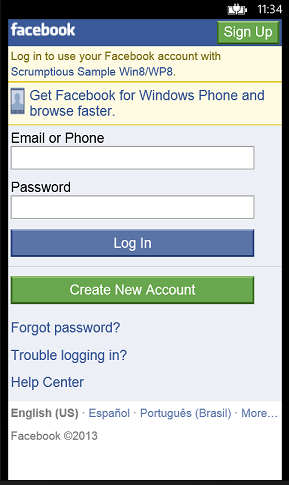
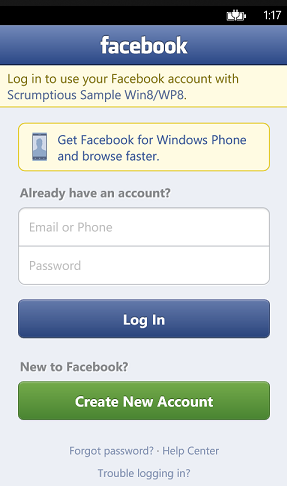
Updating the phone sample to use Facebook.Client library

diff --git a/docs/phone/tutorial/index.md b/docs/phone/tutorial/index.md
@@ -35,21 +35,27 @@ Once you have created the app, you need to edit the app and change a few setting
 > ATTENTION: You may have to wait 5-10 minutes for the App you just created to propagate through the Facebook system before it becomes Active. If your app's facebook login is not working immediately after you created the App, give it 10 minutes and try again.
 
 ### Getting Started on the Application
-To get started, create a Visual Studio project using the Visual C# -> Windows Phone -> Windows Phone App. Let us call our app the Facebook.Scrumptious.WindowsPhone. Visual Studio will ask if you want to target _Windows Phone OS 7.1 or 8.0_. You can choose either, the code for the Facebook integration works with both versions the same way. In this tutorial however, we will assume that the selected version is 7.1. For the sake of this tutorial, you should select 7.1 to avoid any surprises. This will create a barebones application with a single blank page.
+To get started, create a Visual Studio project using the Visual C# -> Windows Phone -> Windows Phone App. Let us call our app the Facebook.Scrumptious.WindowsPhone. Visual Studio will ask if you want to target _Windows Phone OS 7.1 or 8.0_. You can choose either, the code for the Facebook integration works with both versions the same way. In this tutorial however, we will assume that the selected version is 8.0. For the sake of this tutorial, you should select 8.0 to avoid any surprises. This will create a barebones application with a single blank page.
 
 Install the Facebook nuget package into the solution by starting the Package Manager powershell by following:
 
 Tools->Library Package Manager->Package Manager console
 
-Once the powershell command prompt is running, type
+Once the powershell command prompt is running, type the following two commands
 
 "Install-Package Facebook"
 
-This will download the nuget package and install the SDK into your project and add it to the references.
-
 ![Intall Nuget](images/Introduction/1.1-AddingFacebookNuget.png)
 
+"Install-Package Facebook.Client -pre"
+
+![Intall Nuget](images/Introduction/1.1.1-AddingFacebook.ClientNuget.png)
+
+These will download the nuget packages and install the SDK into your project and add it to the references.
+
 ![Facebook Reference](images/Introduction/1.2-AddingFacebook-References.png)
+
+> NOTE: The _-pre_ flag is applied to the Facebook.Client NuGet package because it is still in preview mode owing to currently being in active development. Once this package is stable, you will not need the _-pre_ flag.
 
 Once you've done that, work through the following steps of the tutorial:
 
@@ -70,7 +76,7 @@ Create two folders called ViewModel and  Pages in the project. This is how it wi
 ![Create Folder](images/Authenticate/2-CreateFolders.png)
 
 Add login button to MainPage
-Facebook Authentication on Windows Phone works using OAuth within a WebBrowser control that the application hosts in one of its pages. One of the pages will host the _Login to Facebook_ button and the other is going to host the WebBrowser control. Thus, we will start by adding a login button to the MainPage.xaml. To do this, replace the contents of MainPage.xaml with the following:
+Facebook Authentication on Windows Phone works using OAuth. The Facebook.Client library comes built in with the _FacebookSessionClient_ construct which automatically displays a WebBrowser for the Facebook login. However, whenever we make a login call from within a page, we will first see the UI in the page which made the login call and then we will navigate to the Login page and then back to the original page. If the original page has any UI, the flow will not be smooth as the user will see the UI and then suddently be transitioned to a login page and then transitioned back to the original UI. To avoid this, we will invoke the login page from a blank page and when the login has succeeded, we will navigate to the page where we will host the final Scrumptious UI. Thus, we will start by adding a login button to the MainPage.xaml. On clicking the Login button, we will navigate to another Page called _FacebookLoginPage_ which will be the blank page that will show the OAuth login page. To do this, replace the contents of MainPage.xaml with the following:
 
     <phone:PhoneApplicationPage 
         x:Class="Facebook.Scrumptious.WindowsPhone.MainPage"
@@ -116,61 +122,57 @@ We will keep the rest of our Pages in the _Pages_ Folder. The first page we want
 
 At this point, we will additionally add another page that we want to navigate to once the authentication has succeeded. To do so, just like before add another page to the _Pages_ folder using "Add new Item". Name this page _LandingPage.xaml_. In future references, I will assume you know how to add new Pages to the Pages folder.
 
-To put the WebBrowser control in the FacebookLoginPage, replace the contents of FacebookLoginPage.xaml with the following:
+To create the blank FacebookLoginPage, replace the contents of FacebookLoginPage.xaml with the following:
 
-    <phone:PhoneApplicationPage 
-        x:Class="Facebook.Scrumptious.WindowsPhone.Pages.FacebookLoginPage"
-        xmlns="http://schemas.microsoft.com/winfx/2006/xaml/presentation"
-        xmlns:x="http://schemas.microsoft.com/winfx/2006/xaml"
-        xmlns:phone="clr-namespace:Microsoft.Phone.Controls;assembly=Microsoft.Phone"
-        xmlns:shell="clr-namespace:Microsoft.Phone.Shell;assembly=Microsoft.Phone"
-        xmlns:d="http://schemas.microsoft.com/expression/blend/2008"
-        xmlns:mc="http://schemas.openxmlformats.org/markup-compatibility/2006"
-        FontFamily="{StaticResource PhoneFontFamilyNormal}"
-        FontSize="{StaticResource PhoneFontSizeNormal}"
-        Foreground="{StaticResource PhoneForegroundBrush}"
-        SupportedOrientations="Portrait" Orientation="Portrait"
-        mc:Ignorable="d" d:DesignHeight="768" d:DesignWidth="480"
-        shell:SystemTray.IsVisible="True">
-    
-        <!--LayoutRoot is the root grid where all page content is placed-->
-        <Grid x:Name="LayoutRoot" Background="Transparent">
-            <Grid.RowDefinitions>
-                <RowDefinition Height="Auto"/>
-                <RowDefinition Height="*"/>
-            </Grid.RowDefinitions>
-    
-            <!--ContentPanel - place additional content here-->
-            <Grid x:Name="ContentPanel" Grid.Row="1" Margin="12,0,12,0">
-                <phone:WebBrowser x:Name="webBrowser1" IsScriptEnabled="True" Navigated="webBrowser1_Navigated" Loaded="webBrowser1_Loaded"/>
-            </Grid>
+<phone:PhoneApplicationPage 
+    x:Class="Facebook.Scrumptious.WindowsPhone.Pages.FacebookLoginPage"
+    xmlns="http://schemas.microsoft.com/winfx/2006/xaml/presentation"
+    xmlns:x="http://schemas.microsoft.com/winfx/2006/xaml"
+    xmlns:phone="clr-namespace:Microsoft.Phone.Controls;assembly=Microsoft.Phone"
+    xmlns:shell="clr-namespace:Microsoft.Phone.Shell;assembly=Microsoft.Phone"
+    xmlns:d="http://schemas.microsoft.com/expression/blend/2008"
+    xmlns:mc="http://schemas.openxmlformats.org/markup-compatibility/2006"
+    FontFamily="{StaticResource PhoneFontFamilyNormal}"
+    FontSize="{StaticResource PhoneFontSizeNormal}"
+    Foreground="{StaticResource PhoneForegroundBrush}"
+    SupportedOrientations="Portrait" Orientation="Portrait"
+    mc:Ignorable="d" d:DesignHeight="768" d:DesignWidth="480"
+    shell:SystemTray.IsVisible="True">
+
+    <!--LayoutRoot is the root grid where all page content is placed-->
+    <Grid x:Name="LayoutRoot" Background="Transparent">
+        <Grid.RowDefinitions>
+            <RowDefinition Height="Auto"/>
+            <RowDefinition Height="*"/>
+        </Grid.RowDefinitions>
+
+        <!--ContentPanel - place additional content here-->
+        <Grid x:Name="ContentPanel" Grid.Row="1" Margin="12,0,12,0">
+            
         </Grid>
-    
-        <!--Sample code showing usage of ApplicationBar-->
-        <!--<phone:PhoneApplicationPage.ApplicationBar>
-            <shell:ApplicationBar IsVisible="True" IsMenuEnabled="True">
-                <shell:ApplicationBarIconButton IconUri="/Images/appbar_button1.png" Text="Button 1"/>
-                <shell:ApplicationBarIconButton IconUri="/Images/appbar_button2.png" Text="Button 2"/>
-                <shell:ApplicationBar.MenuItems>
-                    <shell:ApplicationBarMenuItem Text="MenuItem 1"/>
-                    <shell:ApplicationBarMenuItem Text="MenuItem 2"/>
-                </shell:ApplicationBar.MenuItems>
-            </shell:ApplicationBar>
-        </phone:PhoneApplicationPage.ApplicationBar>-->
-    
-    </phone:PhoneApplicationPage>
-    
-In App.xaml.cs add the following two variables to hold the Facebook OAuth Access Token and the User's ID once they have logged in into Facebook:
+    </Grid>
 
-        internal static string AccessToken = String.Empty;
-        internal static string FacebookId = String.Empty;
+    <!--Sample code showing usage of ApplicationBar-->
+    <!--<phone:PhoneApplicationPage.ApplicationBar>
+        <shell:ApplicationBar IsVisible="True" IsMenuEnabled="True">
+            <shell:ApplicationBarIconButton IconUri="/Images/appbar_button1.png" Text="Button 1"/>
+            <shell:ApplicationBarIconButton IconUri="/Images/appbar_button2.png" Text="Button 2"/>
+            <shell:ApplicationBar.MenuItems>
+                <shell:ApplicationBarMenuItem Text="MenuItem 1"/>
+                <shell:ApplicationBarMenuItem Text="MenuItem 2"/>
+            </shell:ApplicationBar.MenuItems>
+        </shell:ApplicationBar>
+    </phone:PhoneApplicationPage.ApplicationBar>-->
 
-In FacebookLogin.xaml.cs, add the following three internal variables. The _ExtendedPermissions_ variable to hold a reference to all the extended permissions our application will require i.e. ability to access the user's profile, the ability to read their news feed and the publish to their news feed. The _fb_ variable of type FacebookClient to instantiate the SDK defined facebook client that we will use in the rest of the tutorial to interact with the Facebook APIs. 
-
-        private readonly string AppId = Constants.FacebookAppId;
-        private const string ExtendedPermissions = "user_about_me,read_stream,publish_stream";
-        private readonly FacebookClient _fb = new FacebookClient();
+</phone:PhoneApplicationPage>
     
+In App.xaml.cs add the following four variables to hold the Facebook OAuth Access Token, the User's ID once they have logged in into Facebook, a flag to keep track that the user has already been authenticated and the FacebookSessionClient class which wraps the Facebook OAuth login in a convenient fashion:
+
+    internal static string AccessToken = String.Empty;
+    internal static string FacebookId = String.Empty;
+    public static bool isAuthenticated = false;
+    public static FacebookSessionClient FacebookSessionClient = new FacebookSessionClient(Constants.FacebookAppId);
+
 Let's now wire up the event handlers in MainPage to navigate to FacebookLogin page to authenticate to Facebook via OAuth when the user clicks the Facebook Login button. To do this, copy the following code to MainPage.xaml.cs:
 
         private void btnFacebookLogin_Click(object sender, RoutedEventArgs e)
@@ -178,79 +180,40 @@ Let's now wire up the event handlers in MainPage to navigate to FacebookLogin pa
             NavigationService.Navigate(new Uri("/Pages/FacebookLoginPage.xaml", UriKind.Relative));
         }
         
-Once the user has navigated, to the OAuth page, we want to connect the event handlers so that the FacebookLogin will load the OAuth dialog in the Web Browser and navigate to LandingPage when the login succeeds. To do this, copy the following four code snippets into FacebookLoginPage.xaml.cs. The first code snippet below sets up the WebBrowser control to navigate to Facebook OAuth Page after reading your Facebook AppID. The Facebook AppID will get defined in Constants.cs file, which we will add shortly.
+Once the user has navigated, to the OAuth page, we want to connect the event handlers so that the FacebookLogin will load the OAuth dialog using FacebookSessionClient and navigate to LandingPage when the login succeeds. To do this, copy the following code snippets into FacebookLoginPage.xaml.cs. First add the following line to the FacebookLoginPage constructor, which invokes the Facebook login as soon as we navigate to the FacebookLoginPage:
 
-        private void webBrowser1_Loaded(object sender, RoutedEventArgs e)
+    this.Loaded += FacebookLoginPage_Loaded;
+
+Then add the following code snippet to the LandingPage.xamls.cs, which checks if the user is already authenticated and if not, invokes the Authentication.
+
+        async void FacebookLoginPage_Loaded(object sender, RoutedEventArgs e)
         {
-            var loginUrl = GetFacebookLoginUrl(AppId, ExtendedPermissions);
-            webBrowser1.Navigate(loginUrl);
+            if (!App.isAuthenticated)
+            {
+                App.isAuthenticated = true;
+                await Authenticate();
+            }
         }
 
-The following code snippet sets up the various parameters that are required to ask for the extended permissions such as user profile information, friends list and publishing permissions and makes a request to Facebook to grant those permissions to our App.
+As the final step of Autentication add the following code to perform the Authentication and request read permissions for the user's profile and other data, and to navigate to the LandingPage when the login has succeeded:
         
-        private Uri GetFacebookLoginUrl(string appId, string extendedPermissions)
+        private FacebookSession session;
+        private async Task Authenticate()
         {
-            var parameters = new Dictionary<string, object>();
-            parameters["client_id"] = appId;
-            parameters["redirect_uri"] = "https://www.facebook.com/connect/login_success.html";
-            parameters["response_type"] = "token";
-            parameters["display"] = "touch";
-
-            // add the 'scope' only if we have extendedPermissions.
-            if (!string.IsNullOrEmpty(extendedPermissions))
+            string message = String.Empty;
+            try
             {
-                // A comma-delimited list of permissions
-                parameters["scope"] = extendedPermissions;
-            }
+                session = await App.FacebookSessionClient.LoginAsync("user_about_me,read_stream");
+                App.AccessToken = session.AccessToken;
+                App.FacebookId = session.FacebookId;
 
-            return _fb.GetLoginUrl(parameters);
-        }
-
-When the browser finally navigates from the Facebook login page, we hook into the Navigated event and try to get the user token from the redirect call.
-        
-        private void webBrowser1_Navigated(object sender, System.Windows.Navigation.NavigationEventArgs e)
-        {
-            FacebookOAuthResult oauthResult;
-            if (!_fb.TryParseOAuthCallbackUrl(e.Uri, out oauthResult))
-            {
-                return;
-            }
-
-            if (oauthResult.IsSuccess)
-            {
-                var accessToken = oauthResult.AccessToken;
-                LoginSucceded(accessToken);
-            }
-            else
-            {
-                // user cancelled
-                MessageBox.Show(oauthResult.ErrorDescription);
-            }
-        }
-
-Notice how the above function parses the Auth Token from the redirect URL, sets the AccessToken and FacbookId of the user in the variables we earlier declared in App.xaml.cs and finally invokes the below snippet to navigate to the LandingPage, where the rest of the UI for the app will live. 
-
-        private void LoginSucceded(string accessToken)
-        {
-            var fb = new FacebookClient(accessToken);
-
-            fb.GetCompleted += (o, e) =>
-            {
-                if (e.Error != null)
-                {
-                    Dispatcher.BeginInvoke(() => MessageBox.Show(e.Error.Message));
-                    return;
-                }
-
-                var result = (IDictionary<string, object>)e.GetResultData();
-                var id = (string)result["id"];
-
-                App.AccessToken = accessToken;
-                App.FacebookId = id;
                 Dispatcher.BeginInvoke(() => NavigationService.Navigate(new Uri("/Pages/LandingPage.xaml", UriKind.Relative)));
-            };
-
-            fb.GetAsync("me?fields=id");
+            }
+            catch (InvalidOperationException e)
+            {
+                message = "Login failed! Exception details: " + e.Message;
+                MessageBox.Show(message);
+            }
         }
 
         
@@ -277,11 +240,6 @@ Basic Permissions Page
 
 ![Login and Extended Permissions Page](images/Authenticate/6-BasicPermission.png)
 
-Extended Permissions Page
-
-![Login and Extended Permissions Page](images/Authenticate/7-ExtendedPermissions.png)
-
-You can download the tutorial finished up to this stage [here](projects/Facebook.Scrumptious.WindowsPhone.Authenticated.zip)
 
 ##Personalize
 
@@ -351,8 +309,6 @@ As a Final step in personalization, we have to invoke the function as soon as th
 As before, make sure to resolve any missing dependencies as illustrated earlier to ensure that the code builds and runs without errors. At the end of this step, your UI for landing page will look like the following:
 
 ![Personalized Page](images/Personalize/Personalized-Page.png)
-
-You can download the tutorial finished up to this stage [here](projects/Facebook.Scrumptious.WindowsPhone.Personalized.zip)
 
 ##Show Friends
 
@@ -725,8 +681,6 @@ And finally, in LandingPage.xaml.cs, add the following code to update the Landin
         }
         
 Build the code at this point of time and make sure you resolve all symbols as shown earlier in the tutorial. This time around when you select friends on the FriendSelector Page and navigate back to the LandingPage, you should see the list of selected friends on the LandingPage.
-
-You can download the tutorial finished up to this stage [here](projects/Facebook.Scrumptious.WindowsPhone.FriendsAdded.zip)
         
 ##Show Nearby Places
 
@@ -1017,8 +971,6 @@ Select a Restaurant
 Final Landing Page UI
 
 ![Landing Page UI](images/Locations/4-EndResultLocation.png)
-
-You can download the tutorial finished up to this stage [here](projects/Facebook.Scrumptious.WindowsPhone.Restaurants.zip)
 
 ## Publish Open Graph Story
 
@@ -1370,15 +1322,28 @@ Add the following code to LandingPage.xaml directly as a descendent of _<phone:P
         </shell:ApplicationBar>
     </phone:PhoneApplicationPage.ApplicationBar>
 
-And Finally, add the following code to LandingPage.xaml.cs to post the Open Graph Action to Facebook and show a MessageDialog on success:
+And Finally, add the following code to LandingPage.xaml.cs to request _publish\_stream_ permissions from the user to get publish access to the user's timeline, post the Open Graph Action to Facebook and show a MessageDialog on success:
 
-        private void PostActionToFBHandler(object sender, EventArgs evtArgs)
+        async private void PostActionToFBHandler(object sender, EventArgs evtArgs)
         {
             if (FacebookData.SelectedFriends.Count < 1
                 || FacebookData.SelectedMeal.Name == String.Empty
                 || FacebookData.IsRestaurantSelected == false)
             {
                 MessageBox.Show("Please select friends, a place to eat and something you ate before attempting to share!");
+                return;
+            }
+
+            FacebookSession session;
+            string message = String.Empty;
+            try
+            {
+                session = await App.FacebookSessionClient.LoginAsync("publish_stream");
+            }
+            catch (InvalidOperationException e)
+            {
+                message = "Login failed! Exception details: " + e.Message;
+                MessageBox.Show(message);
                 return;
             }
 
@@ -1397,26 +1362,33 @@ And Finally, add the following code to LandingPage.xaml.cs to post the Open Grap
                 Dispatcher.BeginInvoke(() =>
                 {
                     MessageBox.Show("Posted Open Graph Action, id: " + (string)result["id"], "Result", MessageBoxButton.OK);
+
+                    // reset the selections after the post action has successfully concluded
+                    this.MealName.Text = "Select One";
+                    this.restaurantLocationTextBlock.Text = "Select One";
+                    this.WithWhoTextBox.Text = "Select Friends";
                 });
             };
 
             fb.PostAsync( String.Format("/me/{0}:eat", Constants.FacebookAppGraphAction), new { meal = FacebookData.SelectedMeal.MealUri, tags = FacebookData.SelectedFriends[0].id, place = FacebookData.SelectedRestaurant.Id});
         }
         
-The above code simply posts to _/me/scrumptiousmsft:eat_ url with the meal, friend's id and the location of the restaurant using the PostTaskAsync API.
+The above code simply posts to _/me/scrumptiousmsft:eat_ url with the meal, friend's id and the location of the restaurant using the PostTaskAsync API once the publish_permissions are granted by the user.
 
 >NOTE: Look at the Open Graph API for reference on how to fetch and post various kinds of data. Use the GetDataAsync or PostDataAsync to retrieve/send data to the URL depending on what operation the API supports. Passing the parameters is pretty easy by just creating a new object with properties set to the parameter names etc. There is No need to pre-create these objects.
 
 If you followed the tutorial correctly, at this step  you should be able to run and publish the action to Facebook and see the following UI:
 
-Post an action to Facebook:
+AppBar with the Post icon to post an action to Facebook:
 
 ![Post action](images/OpenGraphMeal/8-Appbar.png)
+
+Ask for publish permissions:
+
+![Login and Extended Permissions Page](images/Authenticate/7-ExtendedPermissions.png)
 
 Response from Facebook:
 
 ![Facebook Response](images/OpenGraphMeal/9-ActionPosted.png)
-
-You can download the tutorial finished up to this stage [here](projects/Facebook.Scrumptious.WindowsPhone.Finished.zip)
 
 Congratulations, you just finished the Windows Phone tutorial.
